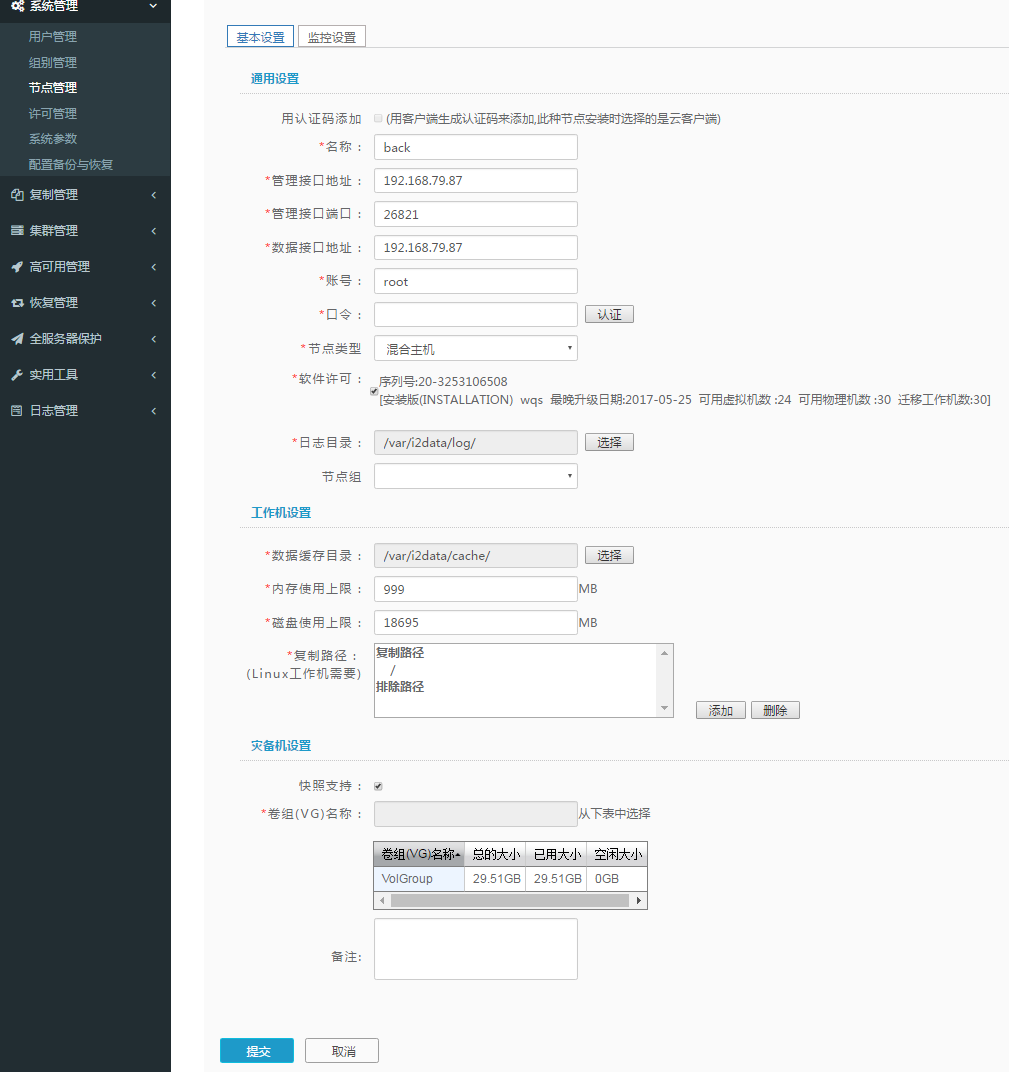
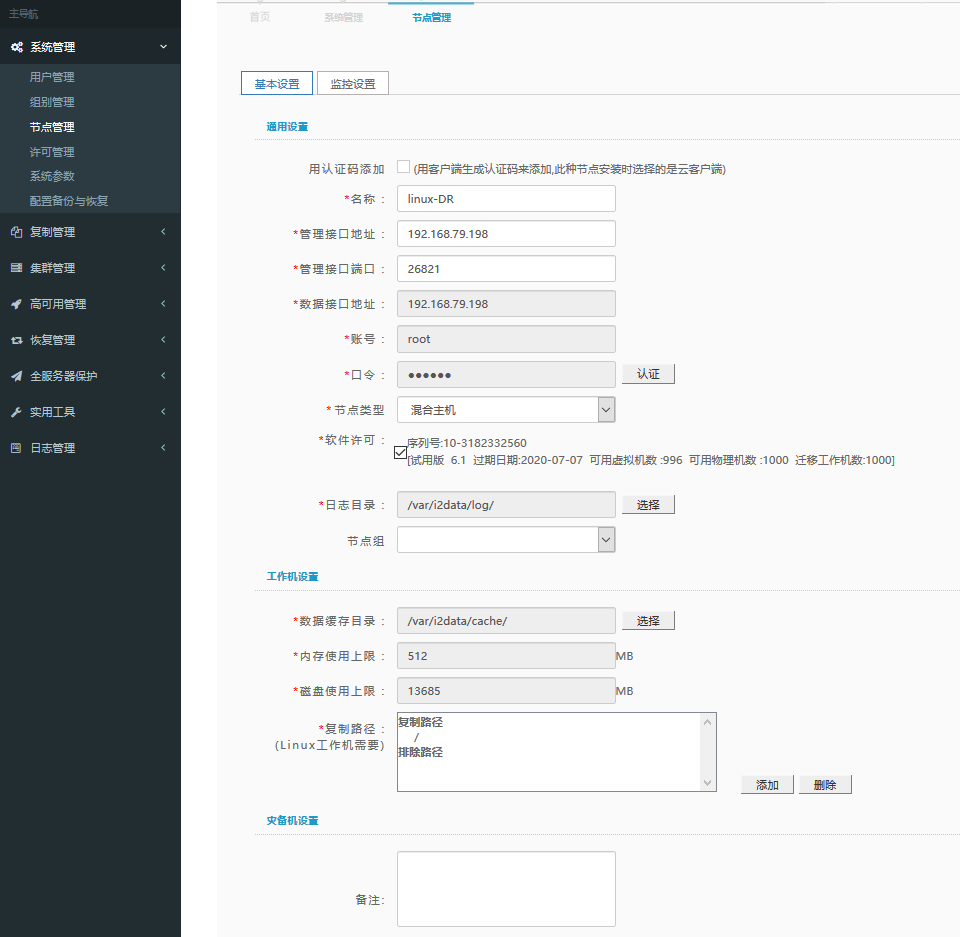
Updates system_management/node_mangement.md
Auto commit by GitBook Editor

diff --git a/system_management/node_mangement.md b/system_management/node_mangement.md
@@ -41,11 +41,6 @@ I2软件从6.0版本开始使用节点的方式管理，不在凸显工作机灾
 
     比如rename操作的情形，要包含rename的源和目标。通常把“复制路径”设置为根目录&quot;/&quot;。
 
-![](/assets/V6.017348.png)
-
-*   “灾备机设置“：如果支持快照选中快照支持（linux 有此选项）
-*   “快照支持”：无需快照功能不用勾选此项；指定该Linux灾备机是否支持快照。如果该灾备机需要支持级联灾备方式，则不能勾选该选项；比如有A、B、C三台机器，如果想把A机数据灾备到B机，B机再把从A备份来的数据灾备到C机，那么B机即是灾备机又是工作机，不能勾选“快照支持”选项。
-*   “卷组（VG）名称“：对于支持快照的Linux灾备机，i2软件采用卷组存放复制和快照数据，因此必须指定卷组。 表格中列出了该灾备机上所有的卷组，从中选择一个作为i2灾备软件使用。当该灾备机不需要支持快照，则不需要指定卷组。
 
 如果用户想查看系统状态，在添加节点时需打开监控设置
 
